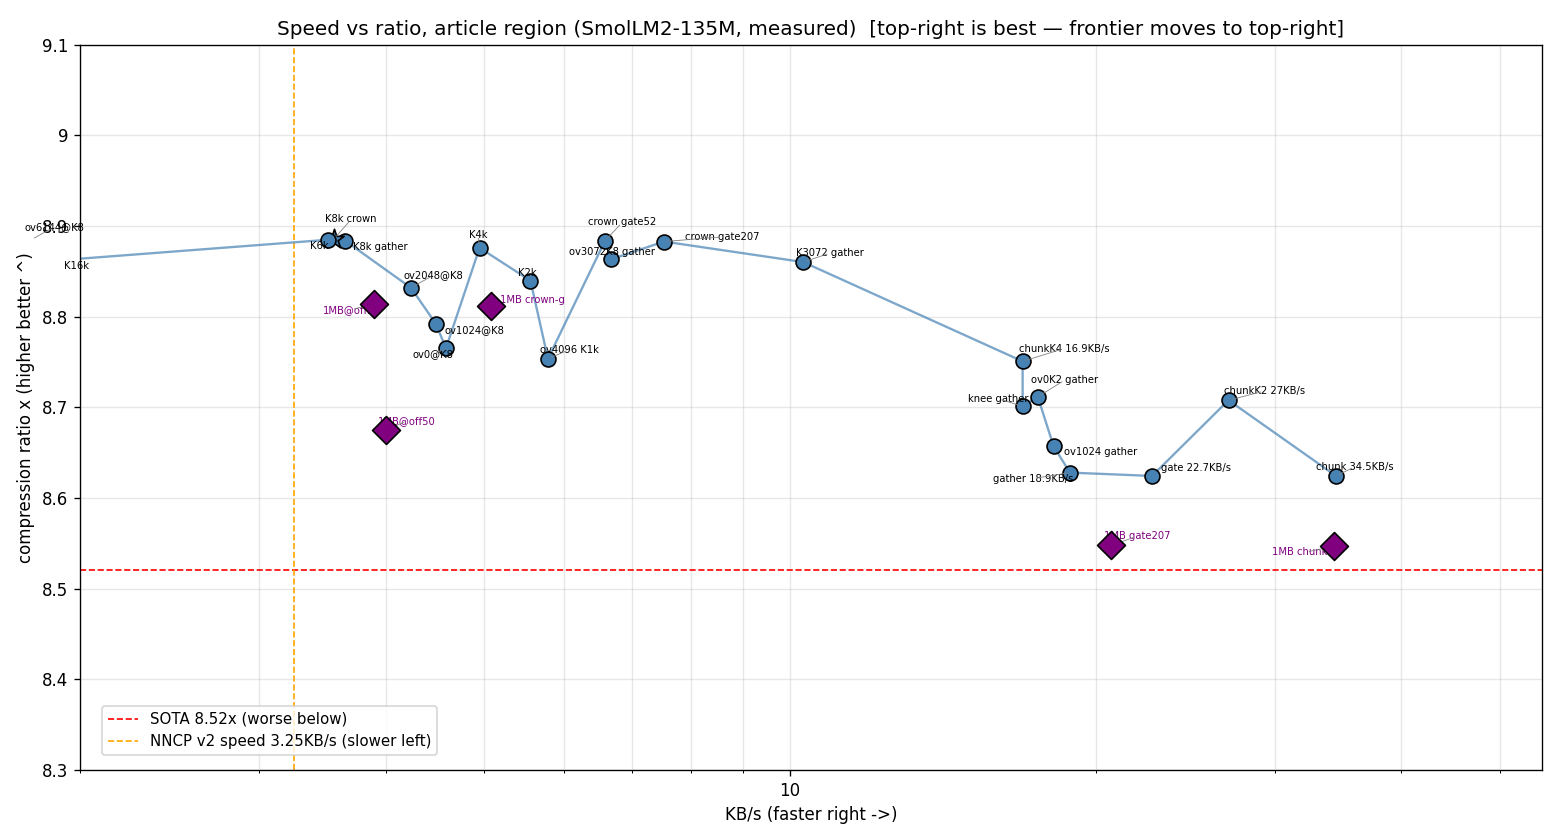
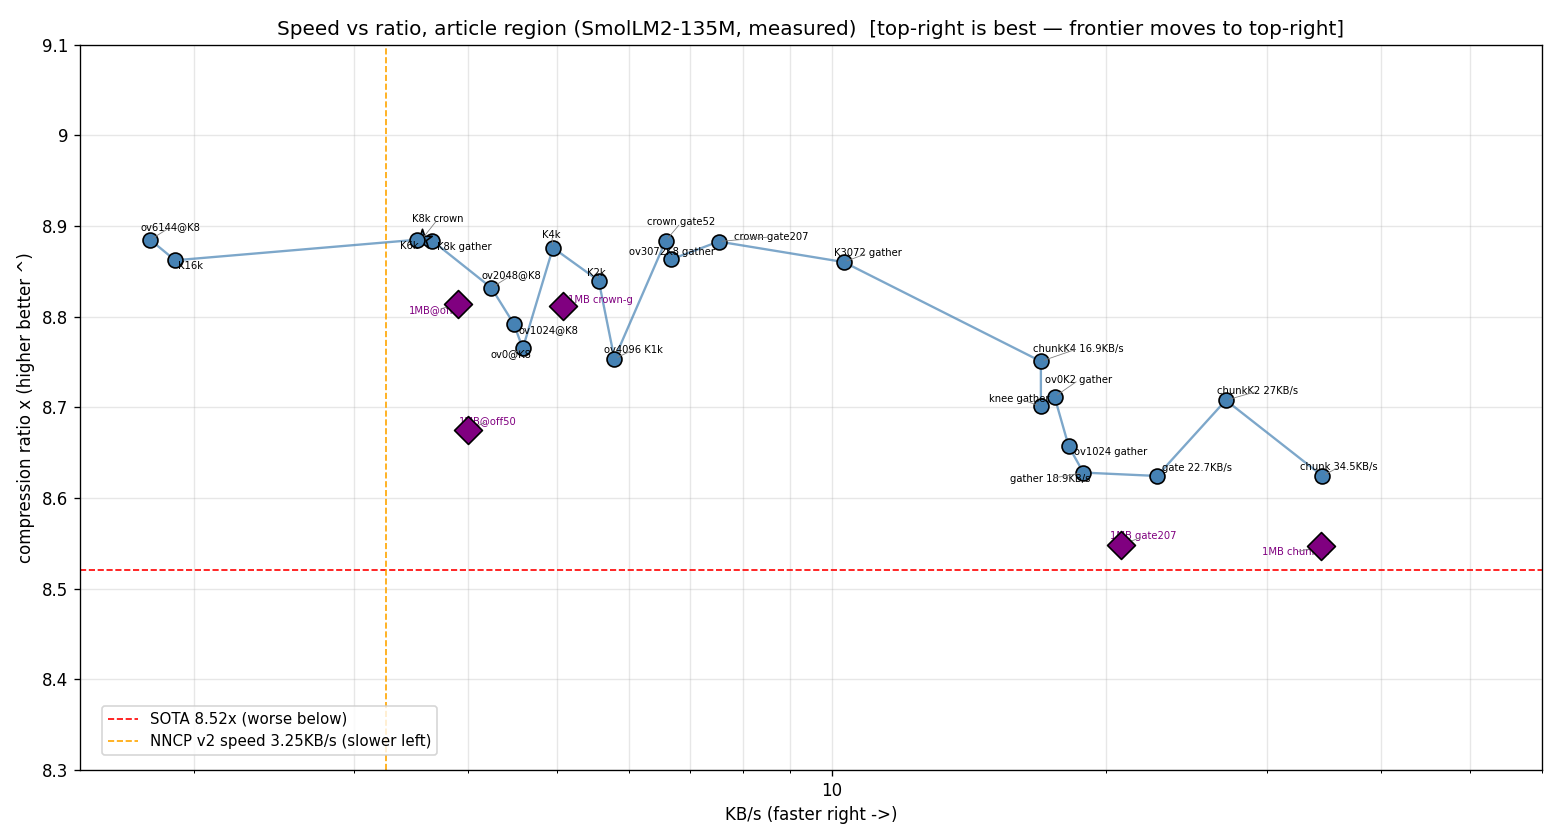
Pareto: widen xlim to 1.5-60 so left frontier not clipped, explain left lines

diff --git a/tools/combined_plot.py b/tools/combined_plot.py
@@ -103,7 +103,7 @@ def pareto_panel(ax, pts, title, ymin, ymax, color, show, offsets, xlim):
 
 ax1 = fig.add_subplot(gs[0,0]); pareto_panel(ax1, OFF50, "Pareto: article region (off50)", 8.3, 9.1, "steelblue",
     show=("K8k\ncrown","K3072 gather","chunk\n34.5KB/s","chunkK2\n27KB/s","chunkK4\n16.9KB/s","crown gate207"),
-    offsets={"K8k\ncrown":(-78,16),"K3072 gather":(10,14),"chunk\n34.5KB/s":(10,12),"chunkK2\n27KB/s":(10,10),"chunkK4\n16.9KB/s":(10,-18),"crown gate207":(-82,-16)}, xlim=55)
+    offsets={"K8k\ncrown":(-78,16),"K3072 gather":(10,14),"chunk\n34.5KB/s":(10,12),"chunkK2\n27KB/s":(10,10),"chunkK4\n16.9KB/s":(10,-18),"crown gate207":(-82,-16)}, xlim=60)
 ax2 = fig.add_subplot(gs[0,1]); pareto_panel(ax2, OFF75, "Pareto: hard region (off75)", 7.9, 8.7, "seagreen",
     show=("ov4096","ov0","gate207 gather\n25KB/s","K2048 gate\n22KB/s"),
     offsets={"ov4096":(-40,-14),"ov0":(12,-14),"gate207 gather\n25KB/s":(12,16),"K2048 gate\n22KB/s":(12,-20)}, xlim=42)

diff --git a/tools/pareto_plot.py b/tools/pareto_plot.py
@@ -117,7 +117,7 @@ def _dots(ax, pts, color, show, offsets):
 fig, ax = _base("Speed vs ratio, article region (SmolLM2-135M, measured)",
                 8.3, 9.1)
 _dots(ax, OFF50, "steelblue", show=None, offsets=None)
-ax.set_xlim(2, 55)
+ax.set_xlim(1.5, 60)
 fig.tight_layout()
 fig.savefig("pareto_off50.png", dpi=120)
 print("saved pareto_off50.png")
